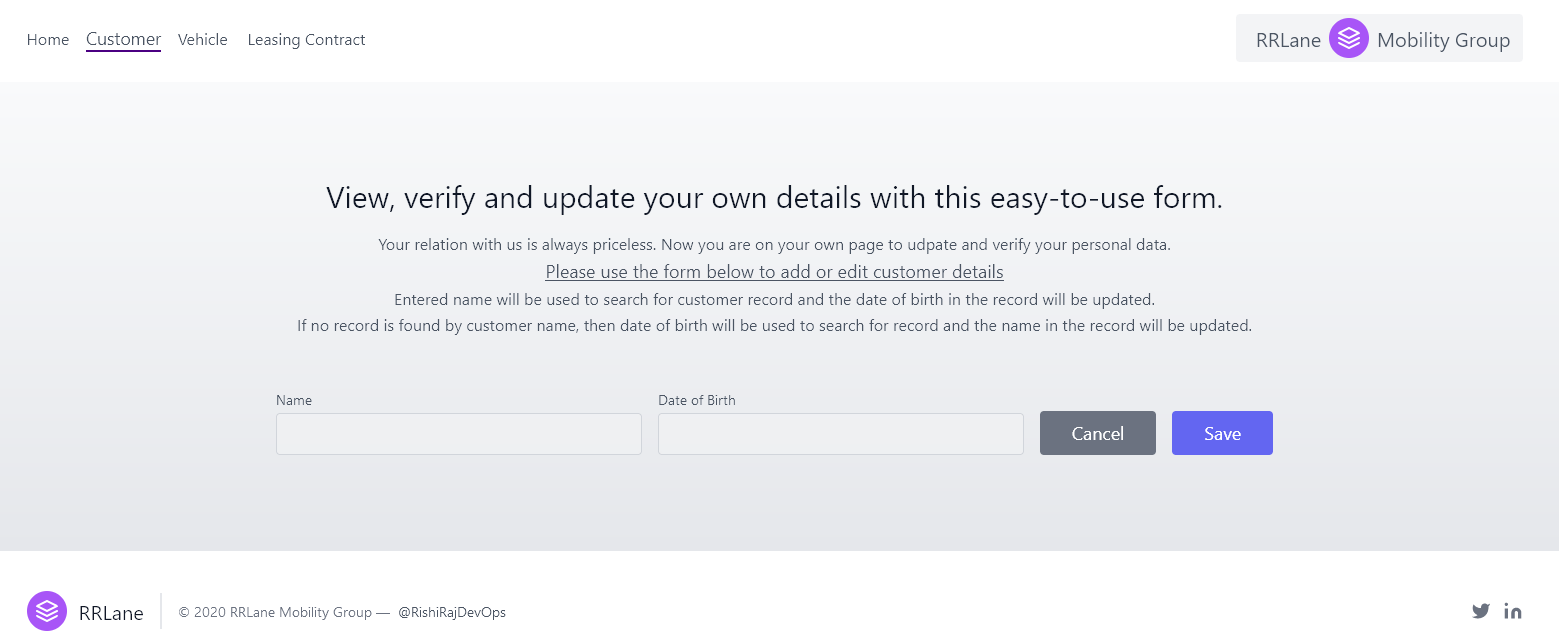
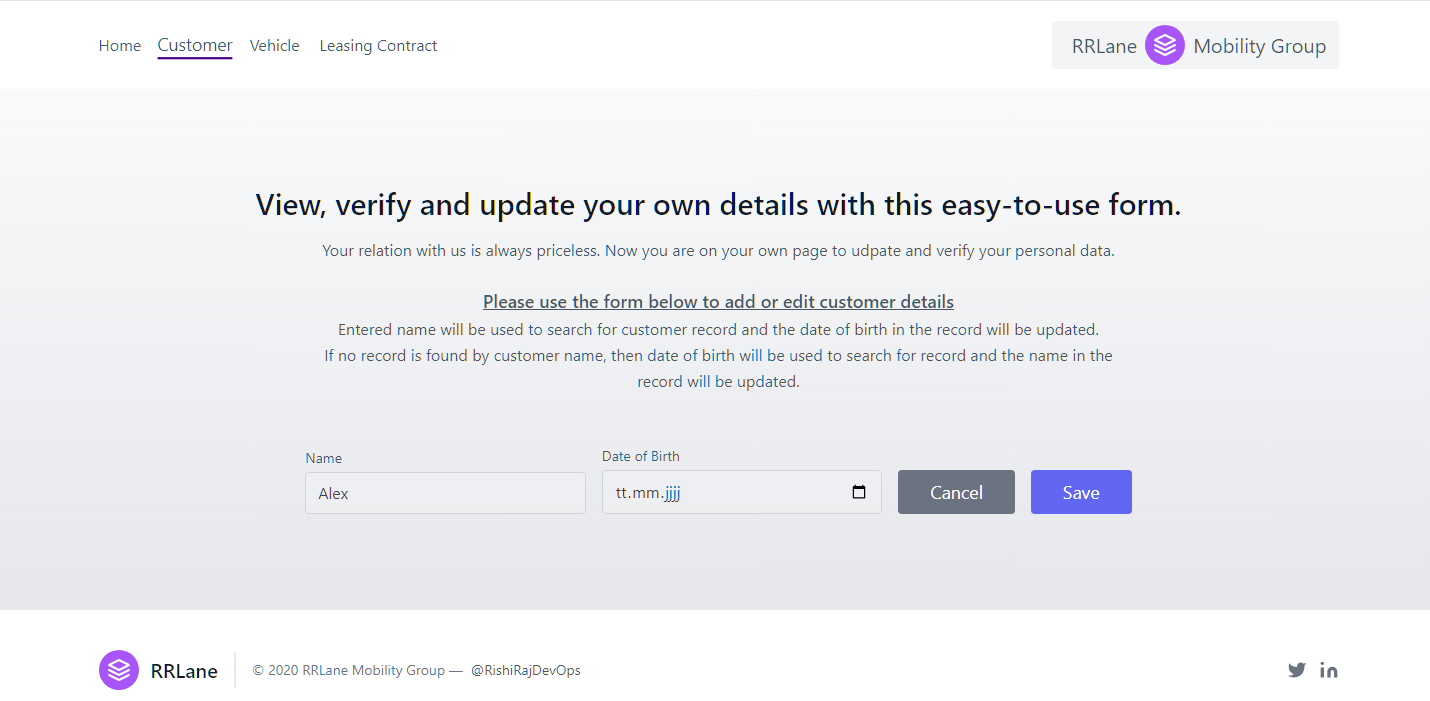
Add Vehicle Search Form. Update the Customer-Form and Vehicle-Form pictures for Home view.

diff --git a/clientng/src/app/vehicle/vehicle.component.html b/clientng/src/app/vehicle/vehicle.component.html
@@ -1,26 +1,14 @@
 <section class="text-gray-600 body-font">
   <div class="container px-5 py-24 mx-auto flex flex-wrap items-center">
     <div class="lg:w-3/5 md:w-1/2 md:pr-16 lg:pr-0 pr-0">
-      <h1 class="title-font font-medium text-3xl text-gray-900">View, verify and update the details of your own lovable
-        vehicle with this easy-to-use form.</h1>
-      <p class="leading-relaxed mt-4">Now you can easily add and modify the vital information about your vehicles. This
-        enables us to deliver higher quality of services to you.</p>
+      <h1 class="title-font font-medium text-3xl text-gray-900">View, verify and update the details of your own lovable vehicles with this easy-to-use form.</h1>
+      <p class="leading-relaxed mt-4">Now you can easily add and modify the vital information about your vehicles. This enables us to deliver higher quality of services to you... everyday.</p>
+      <br>
+      <p class="lg:w-2/3 mx-auto font-medium underline leading-relaxed text-lg">Please use the form here to add or edit vehicle details</p>
+      <p class="lg:w-2/3 mx-auto leading-relaxed text-base">First of all, vehicle identification number (VIN) will be used to search for the unique record of your vehicle, one in a go.</p>
+      <p class="lg:w-2/3 mx-auto leading-relaxed text-base">If no record is found with the entered VIN, then the input combination of brand, model and make year will be used for the next search.</p>
     </div>
-    <div class="lg:w-2/6 md:w-1/2 bg-gray-100 rounded-lg p-8 flex flex-col md:ml-auto w-full mt-10 md:mt-0">
-      <h2 class="text-gray-900 text-lg font-medium title-font mb-5">Sign Up</h2>
-      <div class="relative mb-4">
-        <label for="full-name" class="leading-7 text-sm text-gray-600">Full Name</label>
-        <input type="text" id="full-name" name="full-name"
-          class="w-full bg-white rounded border border-gray-300 focus:border-purple-500 focus:ring-2 focus:ring-purple-200 text-base outline-none text-gray-700 py-1 px-3 leading-8 transition-colors duration-200 ease-in-out">
-      </div>
-      <div class="relative mb-4">
-        <label for="email" class="leading-7 text-sm text-gray-600">Email</label>
-        <input type="email" id="email" name="email"
-          class="w-full bg-white rounded border border-gray-300 focus:border-purple-500 focus:ring-2 focus:ring-purple-200 text-base outline-none text-gray-700 py-1 px-3 leading-8 transition-colors duration-200 ease-in-out">
-      </div>
-      <button
-        class="text-white bg-purple-500 border-0 py-2 px-8 focus:outline-none hover:bg-purple-600 rounded text-lg">Button</button>
-      <p class="text-xs text-gray-500 mt-3">This web page is under development.</p>
-    </div>
+    <app-vehicle-form (vehicleDtoEvent)="save($event)"></app-vehicle-form>
+
   </div>
 </section>

diff --git a/clientng/src/app/vehicle-form/vehicle-form.component.html b/clientng/src/app/vehicle-form/vehicle-form.component.html
@@ -1,0 +1,30 @@
+<form
+  class="lg:w-2/3 w-full sm:flex-row flex-col mx-auto px-8 sm:space-x-0 sm:space-y-2 space-y-4 sm:px-0 items-end">
+  <div class="relative flex-grow w-full">
+    <label for="vin" class="leading-7 text-sm text-gray-600">Vehicle Identification Number</label>
+    <input name="vin" type="text" id="vin" placeholder="DE234VIN2323" [(ngModel)]="vin" aria-describedby="vinHelp"
+      class="w-full bg-gray-100 bg-opacity-50 rounded border border-gray-300 focus:border-indigo-500 focus:bg-transparent focus:ring-2 focus:ring-indigo-200 text-base outline-none text-gray-700 py-1 px-3 leading-8 transition-colors duration-200 ease-in-out">
+  </div>
+  <div class="relative flex-grow w-full">
+    <label for="brand" class="leading-7 text-sm text-gray-600">Brand (Manufacturer)</label>
+    <input name="brand" type="text" id="brand" placeholder="MVV" [(ngModel)]="brand" aria-describedby="brandHelp"
+      class="w-full bg-gray-100 bg-opacity-50 rounded border border-gray-300 focus:border-indigo-500 focus:bg-transparent focus:ring-2 focus:ring-indigo-200 text-base outline-none text-gray-700 py-1 px-3 leading-8 transition-colors duration-200 ease-in-out">
+  </div>
+  <div class="relative flex-grow w-full">
+    <label for="model" class="leading-7 text-sm text-gray-600">Model (Vehicle Design Name)</label>
+    <input name="model" type="text" id="model" placeholder="Autobus" [(ngModel)]="model" aria-describedby="modelHelp"
+      class="w-full bg-gray-100 bg-opacity-50 rounded border border-gray-300 focus:border-indigo-500 focus:bg-transparent focus:ring-2 focus:ring-indigo-200 text-base outline-none text-gray-700 py-1 px-3 leading-8 transition-colors duration-200 ease-in-out">
+  </div>
+  <div class="relative flex-grow w-full">
+    <label for="year" class="leading-7 text-sm text-gray-600">Make Year (Manufacture Year)</label>
+    <input name="year" type="text" id="year" placeholder="1880" [(ngModel)]="year" aria-describedby="makeyearHelp"
+      class="w-full bg-gray-100 bg-opacity-50 rounded border border-gray-300 focus:border-indigo-500 focus:bg-transparent focus:ring-2 focus:ring-indigo-200 text-base outline-none text-gray-700 py-1 px-3 leading-8 transition-colors duration-200 ease-in-out">
+  </div>
+  <div class="flex lg:w-2/3 w-full sm:flex-row flex-col mx-auto px-8 sm:space-x-4 sm:space-y-0 space-y-4 sm:px-3 justify-items-center-safe">
+  <button type="button"
+    class="text-white bg-gray-500 border-0 py-2 px-8 focus:outline-none hover:bg-indigo-600 rounded text-lg"
+    (click)="clear()">Cancel</button>
+  <button type="submit"
+    class="text-white bg-indigo-500 border-0 py-2 px-8 focus:outline-none hover:bg-indigo-600 rounded text-lg"
+    (click)="save()">{{saveEditLabel}}</button></div>
+</form>

diff --git a/clientng/src/app/vehicle-form/vehicle-form.component.ts b/clientng/src/app/vehicle-form/vehicle-form.component.ts
@@ -1,0 +1,49 @@
+import { Component, EventEmitter, Output } from '@angular/core';
+import { VehicleDTO } from '../vehicle/dto/VehicleDTO';
+import { FormsModule } from '@angular/forms';
+
+@Component({
+  selector: 'app-vehicle-form',
+  standalone: true,
+  imports: [FormsModule],
+  templateUrl: './vehicle-form.component.html',
+  styleUrl: './vehicle-form.component.css'
+})
+export class VehicleFormComponent {
+  public vehicleDTO: VehicleDTO = new VehicleDTO("null","null","null","null",1.11)
+
+  public saveEditLabel: string = 'Save'
+  
+  //default values added
+  // for quick review
+  // post app installation
+  brand: string = 'brand'
+  model: string = "model"
+  year: string = '1880'
+  vin: string = "VIN"
+  price: number = 1.11
+
+  
+    @Output()
+    vehicleDtoEvent: EventEmitter<VehicleDTO> = new EventEmitter<VehicleDTO>();
+  
+    public save() {
+      console.log("form:: brand: "+this.vehicleDTO.brand)
+      console.log("form:: model: "+this.vehicleDTO.model)
+      console.log("form:: myear: "+this.vehicleDTO.year)
+      console.log("form:: vin: "+this.vehicleDTO.vin)
+      console.log("form:: price: "+this.vehicleDTO.price)
+      this.vehicleDTO = new VehicleDTO(this.brand, this.model,this.year, this.vin,this.price)
+      console.log("form:: dto: "+this.vehicleDTO)
+      this.saveEditLabel= 'Edit'
+      this.vehicleDtoEvent.emit(this.vehicleDTO)
+    }
+  public clear() {
+    this.brand = ''
+    this.model = ''
+    this.year = ''
+    this.vin = ''
+    this.price = 0;
+    this.saveEditLabel = 'Save'
+  }
+}

diff --git a/clientng/src/app/vehicle.service.ts b/clientng/src/app/vehicle.service.ts
@@ -1,0 +1,43 @@
+import { Injectable } from '@angular/core';
+import { VehicleDTO } from './vehicle/dto/VehicleDTO';
+import axios from 'axios';
+
+@Injectable({
+  providedIn: 'root'
+})
+export class VehicleService {
+
+  constructor() { }
+  private vehicle_endpoint = 'http://localhost:8080/api/v2/vehicles'
+
+  save(vehicle: VehicleDTO): VehicleDTO {
+    console.log("in service save")
+     const data = {
+       "brand": vehicle.brand,
+       "model": vehicle.model,
+       "myear": vehicle.year,
+       "vin": vehicle.vin,
+       "price": vehicle.price
+     };
+     console.log("brand: "+data.brand)
+     console.log("model: "+data.model)
+     console.log("make year: "+data.myear)
+     console.log("vin: "+data.vin)
+     console.log("price: "+data.price)
+     axios
+       .post(this.vehicle_endpoint, data, {
+         headers: {
+           Accept: "application/json",
+           "Content-Type": "application/json;charset=UTF-8",
+           'Access-Control-Allow-Credentials': 'false'
+         },
+       })
+       .then(({ data }) => {
+         console.log("Request to save vehicle details has been completed.")
+       }).catch(({ err }) => {
+         console.log("Error occured while saving vehicle details.")
+         console.log(`Error is: ${err}`)
+       });
+       return vehicle
+   }
+}

diff --git a/clientng/src/app/vehicle/vehicle.component.ts b/clientng/src/app/vehicle/vehicle.component.ts
@@ -1,11 +1,26 @@
-import { Component } from '@angular/core';
+import { Component, Input } from '@angular/core';
+import { VehicleDTO } from './dto/VehicleDTO';
+import { VehicleService } from '../vehicle.service';
+import { VehicleFormComponent } from '../vehicle-form/vehicle-form.component';
 
 @Component({
   selector: 'app-vehicle',
   standalone: true,
-  imports: [],
+  imports: [VehicleFormComponent],
   templateUrl: './vehicle.component.html',
-  styleUrl: './vehicle.component.css'
+  styleUrl: './vehicle.component.css',
+  providers:[VehicleService]
 })
 export class VehicleComponent {
+  @Input()
+  private vehicleDto?: VehicleDTO
+
+  constructor(private _vehicleService: VehicleService) { }
+
+  save($eventDTO: VehicleDTO) {
+    console.log("customerpage:: customerDtoEvent: ")
+    console.log($eventDTO)
+    if ($eventDTO)
+      this.vehicleDto = this._vehicleService.save($eventDTO)
+}
 }

diff --git a/clientng/src/app/customer/customer.component.ts b/clientng/src/app/customer/customer.component.ts
@@ -13,15 +13,14 @@ import { CustomerFormComponent } from '../customer-form/customer-form.component'
 export class CustomerComponent {
   @Input()
   public customerDTO?: CustomerDTO
-  private url = 'http://localhost:8080/api/v2/contracts'
 
-  constructor(private customerService: CustomerService) { }
+  constructor(private _customerService: CustomerService) { }
 
   //default values added
   // for quick review
   // post app installation
   name: string = 'Alex'
-  birthDate: Date = new Date("9.11.2005"); //09 Nov 2005
+  birthDate: Date = new Date("11.11.2005");
 
   saveEditLabel: string = 'Save'
 
@@ -29,6 +28,6 @@ export class CustomerComponent {
     console.log("customerpage:: customerDtoEvent: ")
     console.log($eventDTO)
     if ($eventDTO)
-      this.customerDTO = this.customerService.save($eventDTO)
+      this.customerDTO = this._customerService.save($eventDTO)
   }
 }

diff --git a/clientng/src/app/vehicle-form/vehicle-form.component.spec.ts b/clientng/src/app/vehicle-form/vehicle-form.component.spec.ts
@@ -1,0 +1,23 @@
+import { ComponentFixture, TestBed } from '@angular/core/testing';
+
+import { VehicleFormComponent } from './vehicle-form.component';
+
+describe('VehicleFormComponent', () => {
+  let component: VehicleFormComponent;
+  let fixture: ComponentFixture<VehicleFormComponent>;
+
+  beforeEach(async () => {
+    await TestBed.configureTestingModule({
+      imports: [VehicleFormComponent]
+    })
+    .compileComponents();
+
+    fixture = TestBed.createComponent(VehicleFormComponent);
+    component = fixture.componentInstance;
+    fixture.detectChanges();
+  });
+
+  it('should create', () => {
+    expect(component).toBeTruthy();
+  });
+});

diff --git a/clientng/src/app/customer.service.ts b/clientng/src/app/customer.service.ts
@@ -9,7 +9,7 @@ export class CustomerService {
 
   //constructor(private httpClient: HttpClient) { }
 
-  private url = 'http://localhost:8080/api/v2/contracts'
+  private customer_endpoint = 'http://localhost:8080/api/v2/customers'
 
   save(customer: CustomerDTO): CustomerDTO {
     console.log("in service save")
@@ -20,7 +20,7 @@ export class CustomerService {
      console.log("date: "+data.birthDate)
      console.log("name: "+data.name)
      axios
-       .post(this.url, data, {
+       .post(this.customer_endpoint, data, {
          headers: {
            Accept: "application/json",
            "Content-Type": "application/json;charset=UTF-8",

diff --git a/clientng/src/app/customer-form/customer-form.component.html b/clientng/src/app/customer-form/customer-form.component.html
@@ -8,7 +8,7 @@
   </div>
   <div class="relative flex-grow w-full">
     <label for="bdate" class="leading-7 text-sm text-gray-600">Date of Birth</label>
-    <input name="bdate" type="date" id="bdate" placeholder="03-02-2010" [(ngModel)]="birthDate"
+    <input name="bdate" type="date" id="bdate" [(ngModel)]="birthDate" 
       class="w-full bg-gray-100 bg-opacity-50 rounded border border-gray-300 focus:border-indigo-500 focus:bg-transparent focus:ring-2 focus:ring-indigo-200 text-base outline-none text-gray-700 py-1 px-3 leading-8 transition-colors duration-200 ease-in-out">
   </div>
   <button type="button"

diff --git a/clientng/src/app/vehicle/dto/VehicleDTO.ts b/clientng/src/app/vehicle/dto/VehicleDTO.ts
@@ -1,0 +1,24 @@
+export class VehicleDTO {
+  
+  constructor(private _brand: string,private _model: string,private _year: string,private _vin: string,private _price: number) {}
+
+  public get brand(): string {
+    return this._brand
+  }
+
+  public get model(): string {
+    return this._model
+  }
+  
+  public get year(): string {
+    return this._year
+  }
+  
+  public get vin(): string {
+    return this._vin
+  }
+  
+  public get price(): number {
+    return this._price
+  }
+}

diff --git a/clientng/src/app/customer/customer.component.html b/clientng/src/app/customer/customer.component.html
@@ -3,7 +3,6 @@
     <div class="flex flex-col text-center w-full mb-12">
       <h1 class="sm:text-3xl text-2xl font-medium title-font mb-4 text-gray-900">View, verify and update your own
         details with this easy-to-use form.</h1>
-      <div>{{customerDTO}}</div>
       <p class="lg:w-2/3 mx-auto leading-relaxed text-base">Your relation with us is always priceless. Now you are on
         your own page to udpate and verify your personal data.</p>
       <br>

diff --git a/clientng/src/app/customer-form/customer-form.component.ts b/clientng/src/app/customer-form/customer-form.component.ts
@@ -18,7 +18,7 @@ export class CustomerFormComponent {
   // for quick review
   // post app installation
   name: string = 'Alex'
-  birthDate: Date = new Date("03.02.2010"); //Tue Mar 02 2010
+  birthDate: Date = new Date("03.03.2010");
 
   @Output()
   customerDtoEvent: EventEmitter<CustomerDTO> = new EventEmitter<CustomerDTO>();
@@ -37,5 +37,4 @@ export class CustomerFormComponent {
     this.birthDate = new Date();
     this.saveEditLabel = 'Save'
   }
-
 }
